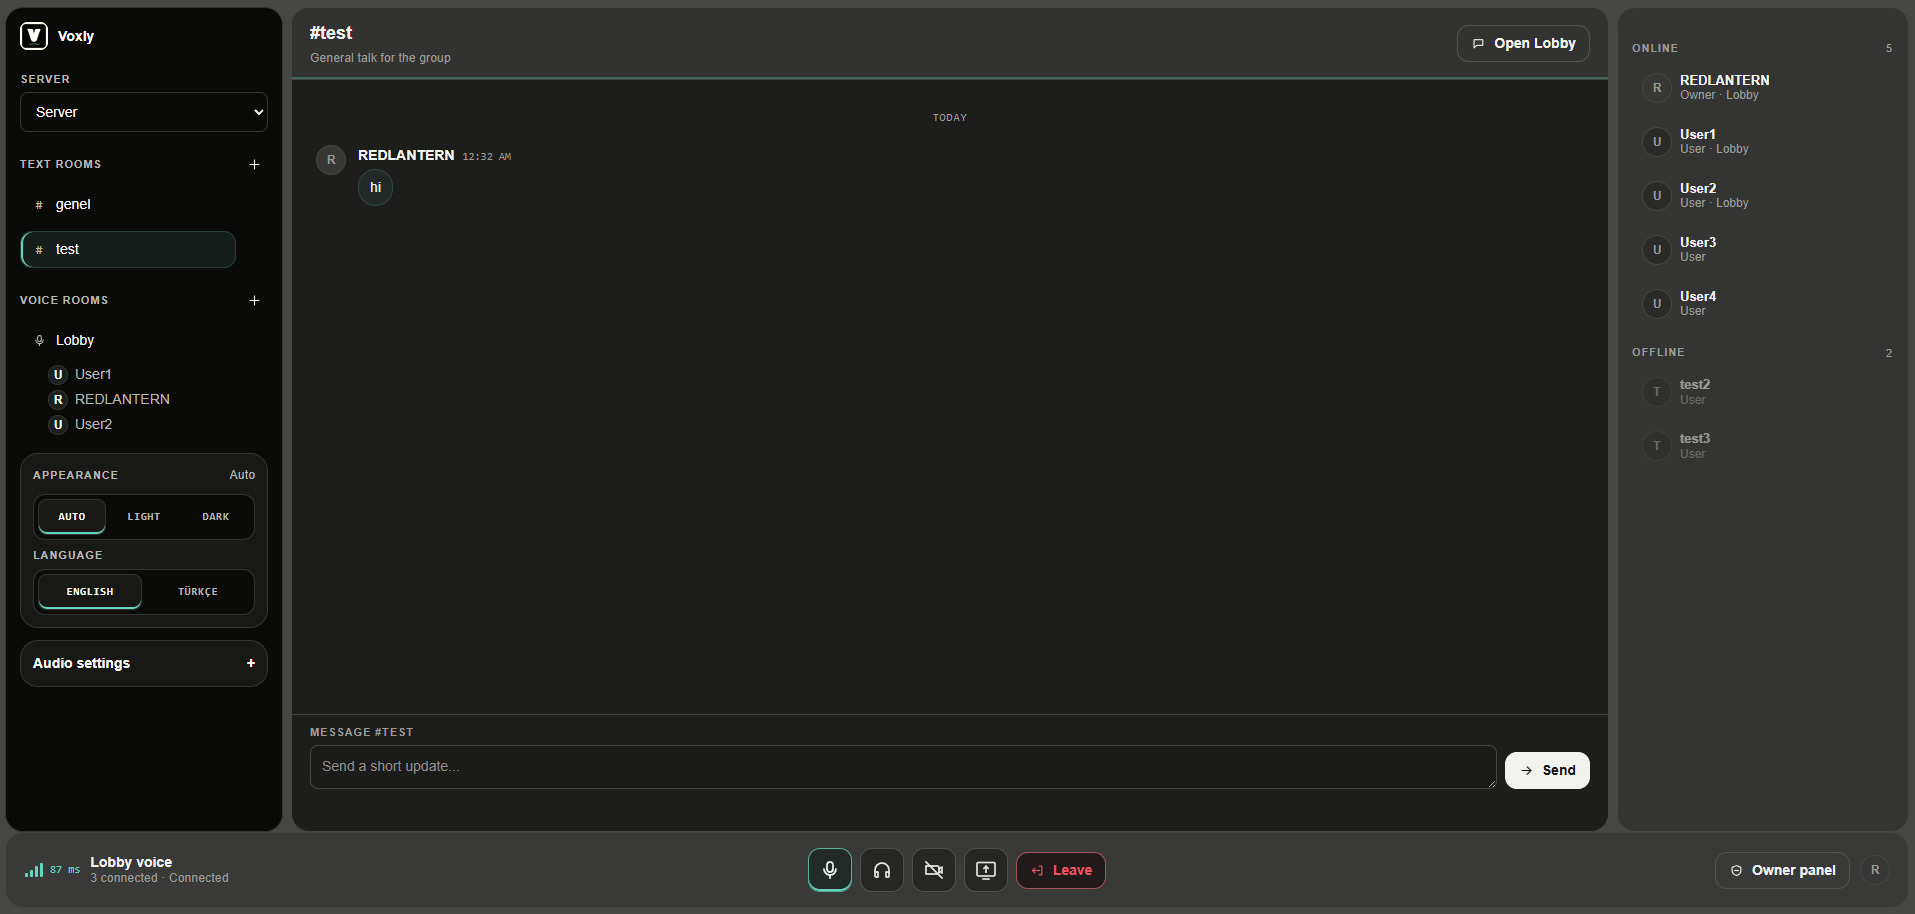
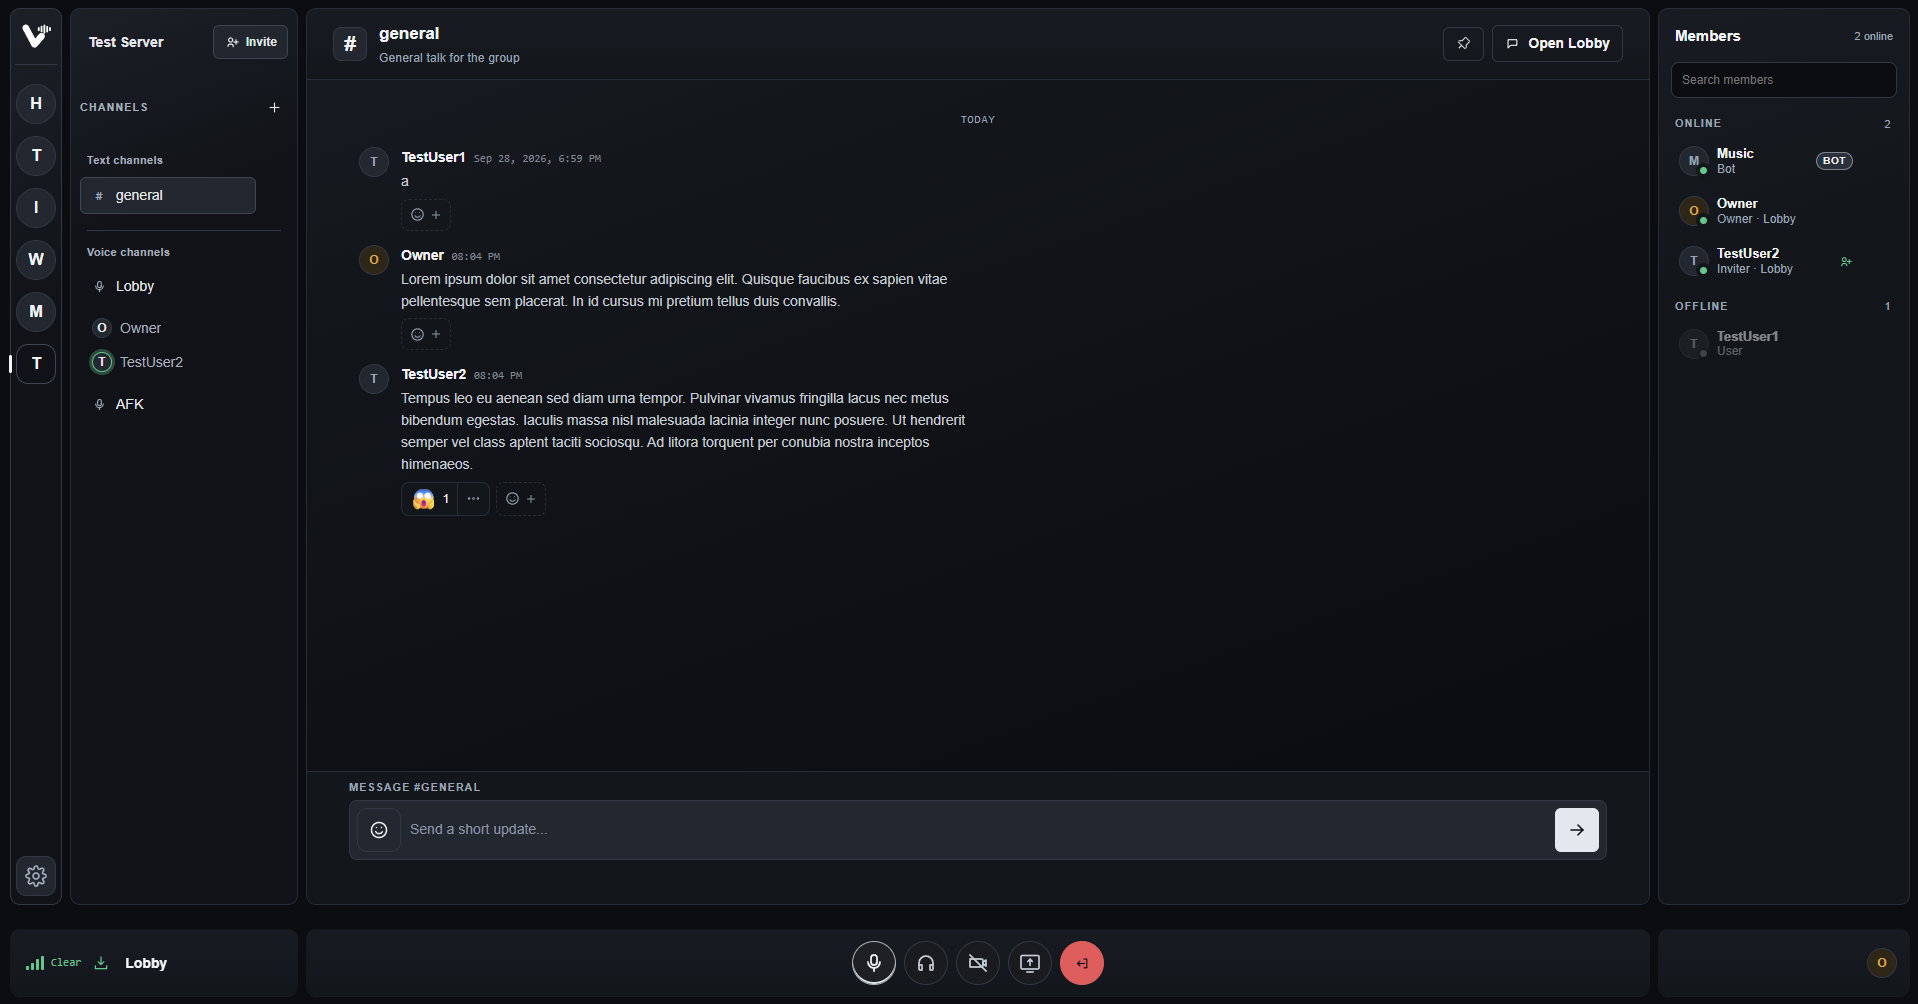
Improve screen recovery status overlays
Move connecting and reconnecting status labels to the top of the shared screen, keep them visible during initial recovery, and expand desktop UX coverage across responsive and touch viewports. Refresh related screenshots.

diff --git a/apps/web/test/voice-room-privacy.test.tsx b/apps/web/test/voice-room-privacy.test.tsx
@@ -63,3 +63,60 @@ it("renders no video, stage, speaking activity, or Music panel outside the chann
   assert.match(html, /Watch stream/);
   assert.match(html, /stream-unwatched-background/);
 });
+
+it("shows Connecting on first screen Watch even when the existing voice peer is recovering", () => {
+  for (const language of ["en", "tr"] as const) {
+    const html = renderToStaticMarkup(
+      <VoiceRoomScreen
+        screenConnectionWarnings={{}}
+        user={{ id: "self", nickname: "Self", role: "member", bannedAt: null }}
+        currentNickname="Self"
+        route={{ name: "voice", roomId: room.id, serverId: room.serverId }}
+        activeServerId="server"
+        rooms={{ text: [], voice: [room] }}
+        currentRoom={room}
+        socketState="live"
+        activeVoiceRoomId="voice"
+        controls={createInitialVoiceControls()}
+        visualTargets={[{ publisherUserId: "publisher", kind: "screen" }]}
+        voiceSnapshots={{
+          voice: {
+            roomId: "voice",
+            viewerInVoiceRoom: true,
+            members: [
+              publisher,
+              {
+                user: { userId: "self", nickname: "Self", role: "member" },
+                media: { mic: true, camera: false, screen: false, speaking: false, deafened: false },
+                moderation: { muted: false, deafened: false },
+                mediaInstanceId: "self-instance"
+              }
+            ]
+          }
+        }}
+        musicQueues={{}}
+        remoteStreams={[]}
+        peerConnectionStates={{ publisher: "reconnecting" }}
+        screenPlaybackStates={{}}
+        localPreviews={[]}
+        memberVolumes={{}}
+        screenVolumes={{}}
+        roomHistory={{}}
+        pendingLiveWatch={null}
+        audioLevels={{ input: 100, output: 100 }}
+        t={(key, values) => translate(language, key, values)}
+        onNavigate={() => {}}
+        onJoinVoice={async () => false}
+        onWatchLive={() => {}}
+        onLiveWatchHandled={() => {}}
+        onRequestVoiceSnapshot={() => {}}
+        onSetVisualSubscriptions={async () => ({ ok: true, targets: [] })}
+        onMemberVolumeChange={() => {}}
+        onScreenVolumeChange={() => {}}
+        onMusicControl={async () => ({ ok: false, error: "not_in_voice_room" })}
+      />
+    );
+    assert.ok(html.includes(translate(language, "voice.connecting")));
+    assert.ok(!html.includes(translate(language, "voice.reconnecting")));
+  }
+});

diff --git a/apps/web/test/screen-recovery.test.ts b/apps/web/test/screen-recovery.test.ts
@@ -35,6 +35,43 @@ function harness() {
   };
 }
 describe("ongoing screen recovery", () => {
+  it("keeps the first Watch connecting as its peer and receiver arrive before playback", () => {
+    const h = harness();
+    h.owner.sync([]);
+    h.owner.sync([{ publisherId: "publisher", peer: null, receiver: null }]);
+    assert.equal(h.owner.status("publisher"), "connecting");
+    h.owner.sync([{ ...h.target, receiver: null }]);
+    assert.equal(h.owner.status("publisher"), "connecting");
+    h.owner.sync([h.target]);
+    assert.equal(h.owner.status("publisher"), "connecting");
+    h.owner.notePlayback("publisher", h.track);
+    assert.equal(h.owner.status("publisher"), "ready");
+    h.owner.dispose();
+  });
+
+  it("keeps initial connection repairs and Retry connecting until the first playback", async () => {
+    const h = harness();
+    h.time(10_000);
+    await h.owner.sample();
+    assert.equal(h.repairs.length, 1);
+    assert.equal(h.owner.status("publisher"), "connecting");
+    h.owner.retry("publisher");
+    assert.equal(h.owner.status("publisher"), "connecting");
+    h.owner.sync([{ ...h.target, peer: {} as RTCPeerConnection, receiver: null }]);
+    assert.equal(h.owner.status("publisher"), "connecting");
+    h.owner.dispose();
+  });
+
+  it("uses Reconnecting for explicit Retry after prior playback", () => {
+    const h = harness();
+    h.owner.notePlayback("publisher", h.track);
+    h.owner.retry("publisher");
+    assert.equal(h.owner.status("publisher"), "reconnecting");
+    h.owner.sync([{ ...h.target, peer: {} as RTCPeerConnection, receiver: null }]);
+    assert.equal(h.owner.status("publisher"), "reconnecting");
+    h.owner.dispose();
+  });
+
   it("announces exactly at the grace deadline without waiting for another stats sample", (t) => {
     t.mock.timers.enable({ apis: ["setTimeout", "Date"], now: 0 });
     const h = harness();
@@ -232,6 +269,7 @@ describe("ongoing screen recovery", () => {
     assert.equal(h.owner.status("publisher"), "failed");
     assert.equal(h.repairs.length, 1);
     h.owner.retry("publisher");
+    assert.equal(h.owner.status("publisher"), "connecting");
     await h.owner.sample();
     assert.equal(h.repairs.length, 2);
     h.owner.dispose();

diff --git a/apps/web/src/lib/screenRecovery.ts b/apps/web/src/lib/screenRecovery.ts
@@ -58,7 +58,7 @@ export class ScreenRecoveryOwner {
             ? "failed"
             : old?.played && (old.interruptedAt === null || this.now() - old.interruptedAt < 5_000)
               ? "ready"
-              : old
+              : old?.played
                 ? "reconnecting"
                 : "connecting"
       };
@@ -128,10 +128,10 @@ export class ScreenRecoveryOwner {
     this.clearPresentationTimer(entry);
     entry.startedAt = this.now() - 10_000;
     entry.ready = false;
-    entry.interruptedAt = this.now() - 5_000;
+    entry.interruptedAt = entry.played ? this.now() - 5_000 : null;
     entry.faultSince = null;
     entry.lastRepairAt = null;
-    this.update(entry, "reconnecting");
+    this.update(entry, entry.played ? "reconnecting" : "connecting");
   }
   async sample() {
     if (this.disposed || this.sampling) return;
@@ -186,7 +186,6 @@ export class ScreenRecoveryOwner {
         if (entry.lastRepairAt !== null && now - entry.lastRepairAt < 15_000) continue;
         entry.busy = true;
         entry.lastRepairAt = now;
-        if (!entry.played) this.update(entry, "reconnecting");
         try {
           await this.repair(id, entry.peer, () => !this.disposed && this.entries.get(id) === entry);
         } catch {

diff --git a/apps/web/src/features/voice/VoicePresentation.tsx b/apps/web/src/features/voice/VoicePresentation.tsx
@@ -216,14 +216,10 @@ export function RecoveringScreenVideo({
         aria-hidden="true"
       />
       <video className="call-video" ref={videoRef} autoPlay playsInline muted hidden={!decoded || failed} />
-      {failed || (!hasPicture && !decoded) ? (
-        <span className="screen-stage-placeholder">
-          {t(failed ? "voice.retry" : connectionStatus === "reconnecting" ? "voice.reconnecting" : "voice.connecting")}
-        </span>
-      ) : null}
-      {!failed && hasPicture && connectionStatus === "reconnecting" ? (
+      {failed ? <span className="screen-stage-placeholder">{t("voice.retry")}</span> : null}
+      {!failed && ((!hasPicture && !decoded) || connectionStatus === "reconnecting") ? (
         <span className="screen-recovery-overlay" role="status">
-          {t("voice.reconnecting")}
+          {t(connectionStatus === "reconnecting" ? "voice.reconnecting" : "voice.connecting")}
         </span>
       ) : null}
     </span>

diff --git a/apps/web/scripts/desktop-ux/features.jsx b/apps/web/scripts/desktop-ux/features.jsx
@@ -26,6 +26,10 @@ function RecoveryFixture() {
       () => now.current
     );
     window.screenRecoveryFixture = {
+      watch() {
+        setSelected(true);
+        owner.current.sync([{ publisherId: "fixture", peer: null, receiver: null }]);
+      },
       start(color = "#ff0000") {
         const canvas = document.createElement("canvas");
         canvas.width = 1280;
@@ -81,7 +85,10 @@ function RecoveryFixture() {
     };
   }, []);
   return (
-    <div id="recovery-fixture" style={{ position: "relative", width: 640, height: 360, background: "#111" }}>
+    <div
+      id="recovery-fixture"
+      style={{ position: "relative", width: "min(640px, 100%)", aspectRatio: "16 / 9", background: "#111" }}
+    >
       {selected ? (
         <RecoveringScreenVideo
           stream={stream}

diff --git a/apps/web/src/features/voice/VoiceRoomScreen.tsx b/apps/web/src/features/voice/VoiceRoomScreen.tsx
@@ -145,8 +145,8 @@ export function VoiceRoomScreen(props: VoiceRoomProps) {
         connectionStatus:
           participant.userId === props.user.id
             ? "ready"
-            : kind === "screen" && props.screenPlaybackStates?.[participant.userId]
-              ? props.screenPlaybackStates[participant.userId]
+            : kind === "screen"
+              ? (props.screenPlaybackStates?.[participant.userId] ?? "connecting")
               : connectionStatusFor(
                   props.peerConnectionStates[participant.userId] ?? "new",
                   Boolean(streamByKey.get(remoteStreamKey(participant.userId, kind)))

diff --git a/apps/web/src/styles.css b/apps/web/src/styles.css
@@ -6897,7 +6897,7 @@ button.reply-quote:focus-visible .reply-quote-body {
 .screen-recovery-overlay {
   position: absolute;
   left: 50%;
-  bottom: 12px;
+  top: 12px;
   transform: translateX(-50%);
   padding: 5px 10px;
   border-radius: 6px;
